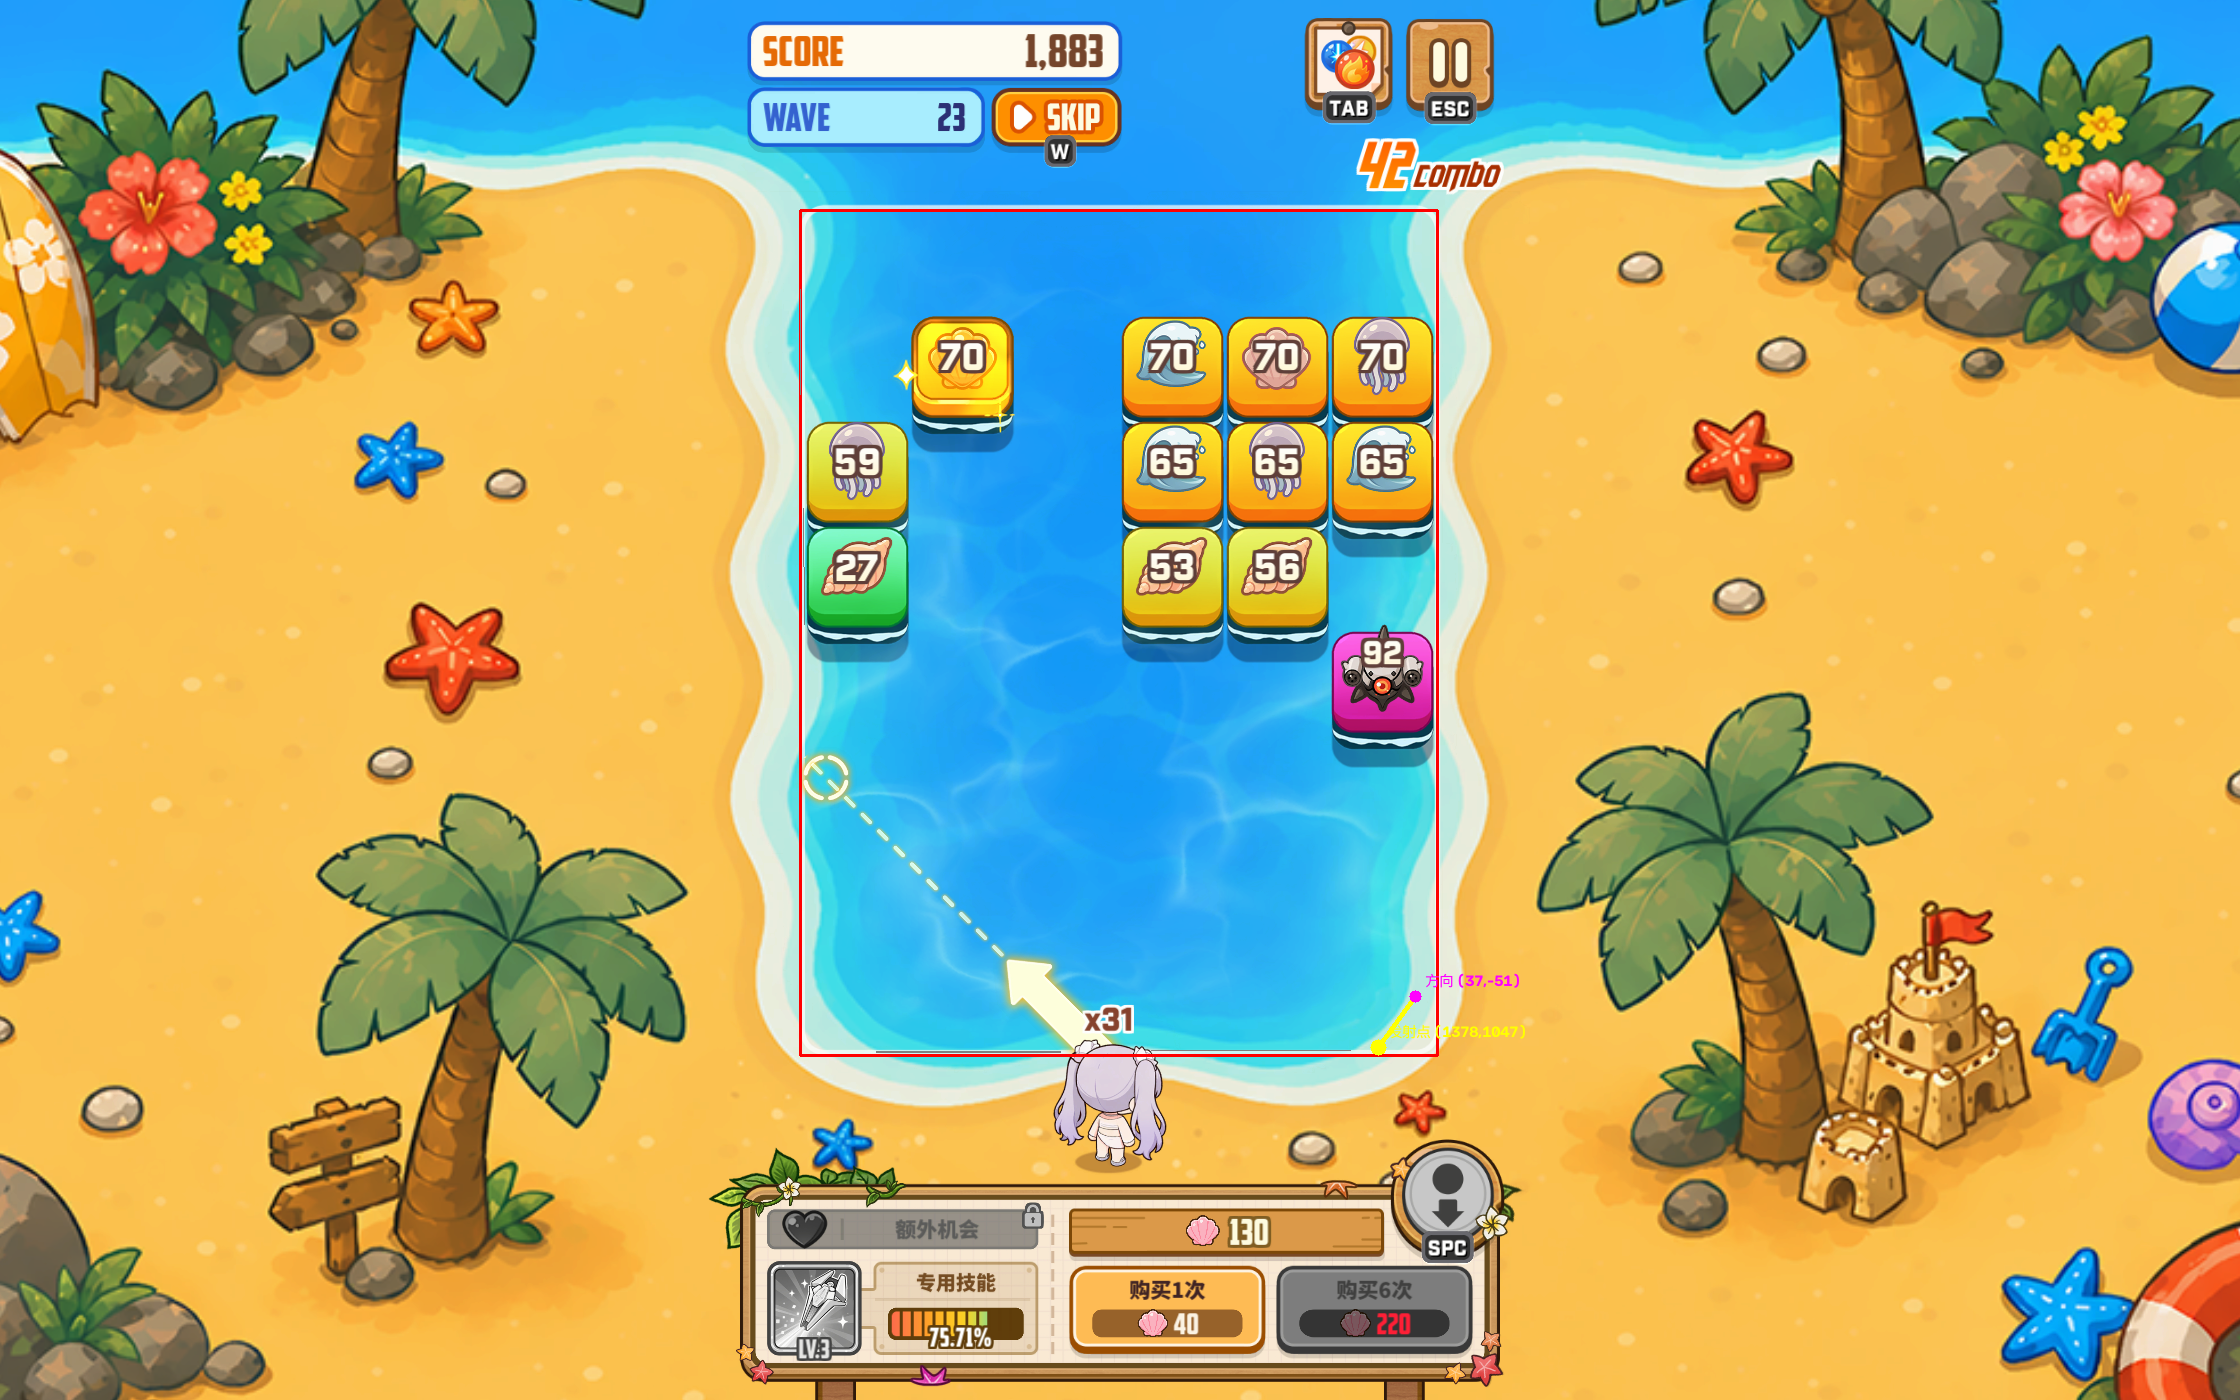
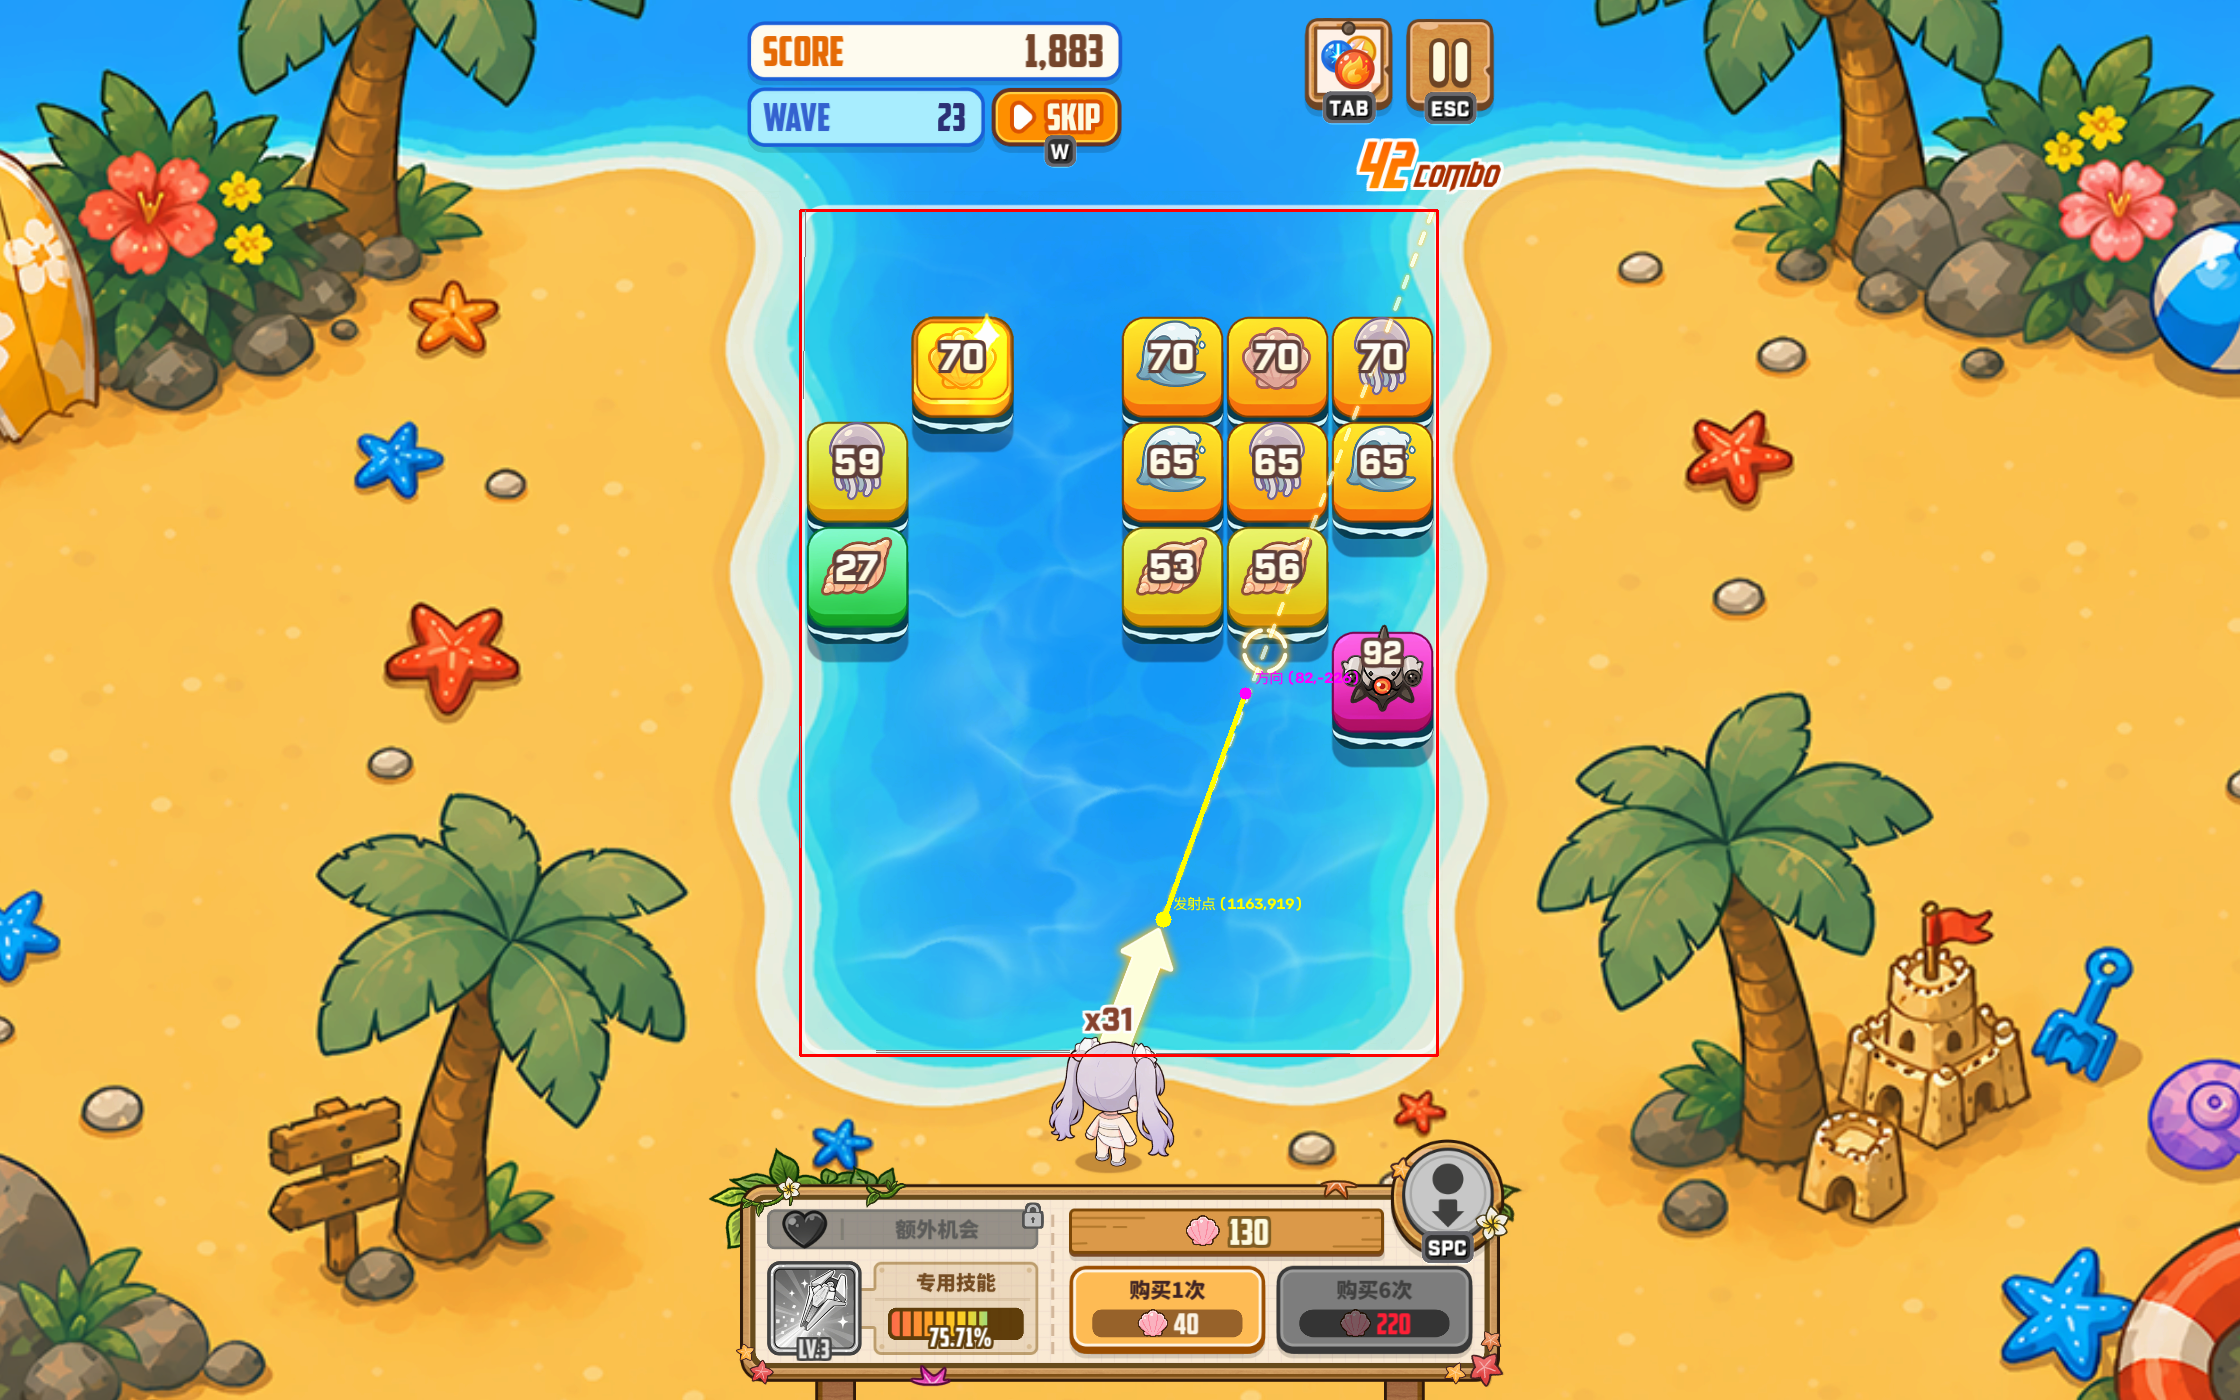
fix: add temporal smoothing to prevent trajectory flickering
- Cache last valid trajectory for up to 3 detection cycles (~450ms)
  so brief detection misses don't clear the display
- Smoothly transition between detected frames
- Simulation verified: 1173 waypoints with 1 reflection before drop

diff --git a/src/main.py b/src/main.py
@@ -44,6 +44,9 @@ class NikkeOverlayApp:
 
         # 状态
         self._blocks: list = []
+        self._miss_count = 0          # 连续未检测到轨迹线的次数
+        self._last_traj_data = None   # (lx, ly, dx, dy) 上次有效的轨迹
+        self._max_miss = 3            # 最多保持3帧（~450ms）
 
         # 定时器
         self._detect_timer = QTimer(self.app)
@@ -92,7 +95,10 @@ class NikkeOverlayApp:
             # 2. 检测游戏轨迹线（按住拖拽时游戏会画淡青色线）
             traj = detect_trajectory(frame)
             if traj:
+                self._miss_count = 0
+                self._last_traj_data = traj
                 lx, ly, dx, dy = traj
+
                 # 更新发射点显示
                 self.renderer.launch_point = (lx, ly)
 
@@ -105,13 +111,24 @@ class NikkeOverlayApp:
                 self.renderer.status_text = "预测中"
                 self.renderer.status_color = QColor(0, 200, 0)
             else:
-                # 游戏没画轨迹线（没在拖拽）→ 清除预判线
-                if self.renderer.trajectory:
-                    self.renderer.trajectory = []
-                    self.renderer.endpoint = None
-                    self.renderer.is_dragging = False
-                    self.renderer.status_text = "就绪"
-                    self.renderer.status_color = QColor(100, 100, 100)
+                # 没检测到 → 用上次有效结果保持几帧（防闪烁）
+                self._miss_count += 1
+                if self._miss_count < self._max_miss and self._last_traj_data:
+                    # 用缓存的轨迹继续显示
+                    lx, ly, dx, dy = self._last_traj_data
+                    waypoints, reason, col, row = simulate(lx, ly, dx, dy, self._blocks)
+                    self.renderer.trajectory = waypoints
+                    if waypoints:
+                        self.renderer.endpoint = waypoints[-1]
+                else:
+                    # 真的没了 → 清除
+                    if self.renderer.trajectory:
+                        self.renderer.trajectory = []
+                        self.renderer.endpoint = None
+                        self.renderer.is_dragging = False
+                        self._last_traj_data = None
+                        self.renderer.status_text = "就绪"
+                        self.renderer.status_color = QColor(100, 100, 100)
 
         except Exception as e:
             logger.warning(f"检测失败: {e}")